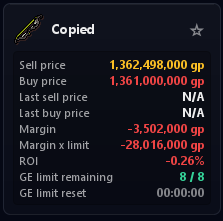
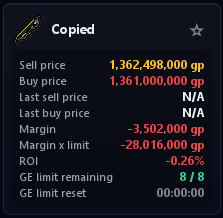
Show the Paste line among what is new in the README
The top of the page names what is new, and it named only the Merchant
skill. Paste is there now, above it, with the search screenshot and a
link down to its section.

The section itself moves above Grand Exchange suggestions, so the page
follows an offer in order: find the item, then set the price and the
quantity. Contents follows. The setting gets its picture like the other
settings, and the two panel screenshots sit side by side, the "Copied"
one trimmed of three empty rows so both are the same height.

diff --git a/README.md b/README.md
@@ -9,6 +9,14 @@ Track your Grand Exchange flips — margins, buy limits and live Wiki prices, ri
 Works entirely offline. Linking a [FlipHub](https://www.fliphubosrs.com) account is optional and
 **off by default**.
 
+## New: paste an item's name
+
+No more typing an item's name into the Grand Exchange. Copy it anywhere, or right-click it in
+the FlipHub panel, and it is waiting in the top left of the item search when you open a buy
+offer. One click puts it in the search box. [More about Paste](#paste-an-items-name)
+
+<img src="docs/ge-search-paste.png" width="520" alt="The Grand Exchange item search headed &quot;What would you like to buy?&quot;, with &quot;Paste: Amulet of torture&quot; in red in its top left corner">
+
 ## New: the Merchant skill
 
 Your flipping is now a skill. Merchant sits in the game's own skills tab, levelled by your lifetime
@@ -26,8 +34,8 @@ for your profit and what the next level takes. [More about Merchant](#merchant-s
   - [Activity panel](#activity-panel)
   - [You can see how old a price is](#you-can-see-how-old-a-price-is)
   - [Bookmarks](#bookmarks)
-  - [Grand Exchange suggestions](#grand-exchange-suggestions)
   - [Paste an item's name](#paste-an-items-name)
+  - [Grand Exchange suggestions](#grand-exchange-suggestions)
   - [Decimal prices](#decimal-prices)
   - [Profile](#profile)
   - [Recipes](#recipes)
@@ -132,22 +140,6 @@ again can be hidden from its icon.
 
 <img src="docs/divider.png" width="100%" alt="">
 
-#### Grand Exchange suggestions
-
-Setting up an offer puts the numbers you'd otherwise alt-tab for above the prompt. Click one to
-type it in.
-
-![The GE price prompt showing "Current Buy Price: 702 gp"](docs/ge-suggestion-buy-price.png)
-
-![The GE price prompt showing "Current Sell Price: 183,211 gp"](docs/ge-suggestion-sell-price.png)
-
-On a buy, the quantity prompt adds your remaining limit and how many the coins and platinum tokens
-in your inventory buy at the price you entered.
-
-![The GE quantity prompt showing "Remaining GE limit: 3,000" and "Cash limit: 5,585"](docs/ge-suggestion-buy-limit.png)
-
-<img src="docs/divider.png" width="100%" alt="">
-
 #### Paste an item's name
 
 Copied an item's name from the website, the Wiki or Discord? Open a buy offer and it is waiting in
@@ -161,15 +153,30 @@ you have copied, a password or a message, never appears. The search box takes 25
 longer name goes in as its first 25, which still finds it.
 
 Right-click an item's name in the FlipHub panel, on the Activity or the Profile tab, and it is
-copied for you, so a name goes from the panel to the search in two clicks.
+copied for you, so a name goes from the panel to the search in two clicks. The name reads
+**Copied** for a moment, so you can see it worked.
 
-<img src="docs/panel-copy-name-tooltip.png" width="514" alt="Hovering Twisted bow on an Activity card, with the tooltip: Open Twisted bow on FlipHub. Right-click copies the name.">
-
-The name reads **Copied** for a moment, so you can see it worked.
-
-<img src="docs/panel-copy-name-copied.png" width="223" alt="The same card just after a right-click, its name replaced by the word Copied">
+<img src="docs/panel-copy-name-tooltip.png" width="514" alt="Hovering Twisted bow on an Activity card, with the tooltip: Open Twisted bow on FlipHub. Right-click copies the name."> <img src="docs/panel-copy-name-copied.png" width="223" alt="The same card just after a right-click, its name replaced by the word Copied">
 
 Turn the Paste line off with **Paste button in the GE search** in the plugin settings.
+
+<img src="docs/setting-search-paste.png" width="232" alt="The Paste button in the GE search setting, ticked">
+
+<img src="docs/divider.png" width="100%" alt="">
+
+#### Grand Exchange suggestions
+
+Setting up an offer puts the numbers you'd otherwise alt-tab for above the prompt. Click one to
+type it in.
+
+![The GE price prompt showing "Current Buy Price: 702 gp"](docs/ge-suggestion-buy-price.png)
+
+![The GE price prompt showing "Current Sell Price: 183,211 gp"](docs/ge-suggestion-sell-price.png)
+
+On a buy, the quantity prompt adds your remaining limit and how many the coins and platinum tokens
+in your inventory buy at the price you entered.
+
+![The GE quantity prompt showing "Remaining GE limit: 3,000" and "Cash limit: 5,585"](docs/ge-suggestion-buy-limit.png)
 
 <img src="docs/divider.png" width="100%" alt="">
 
